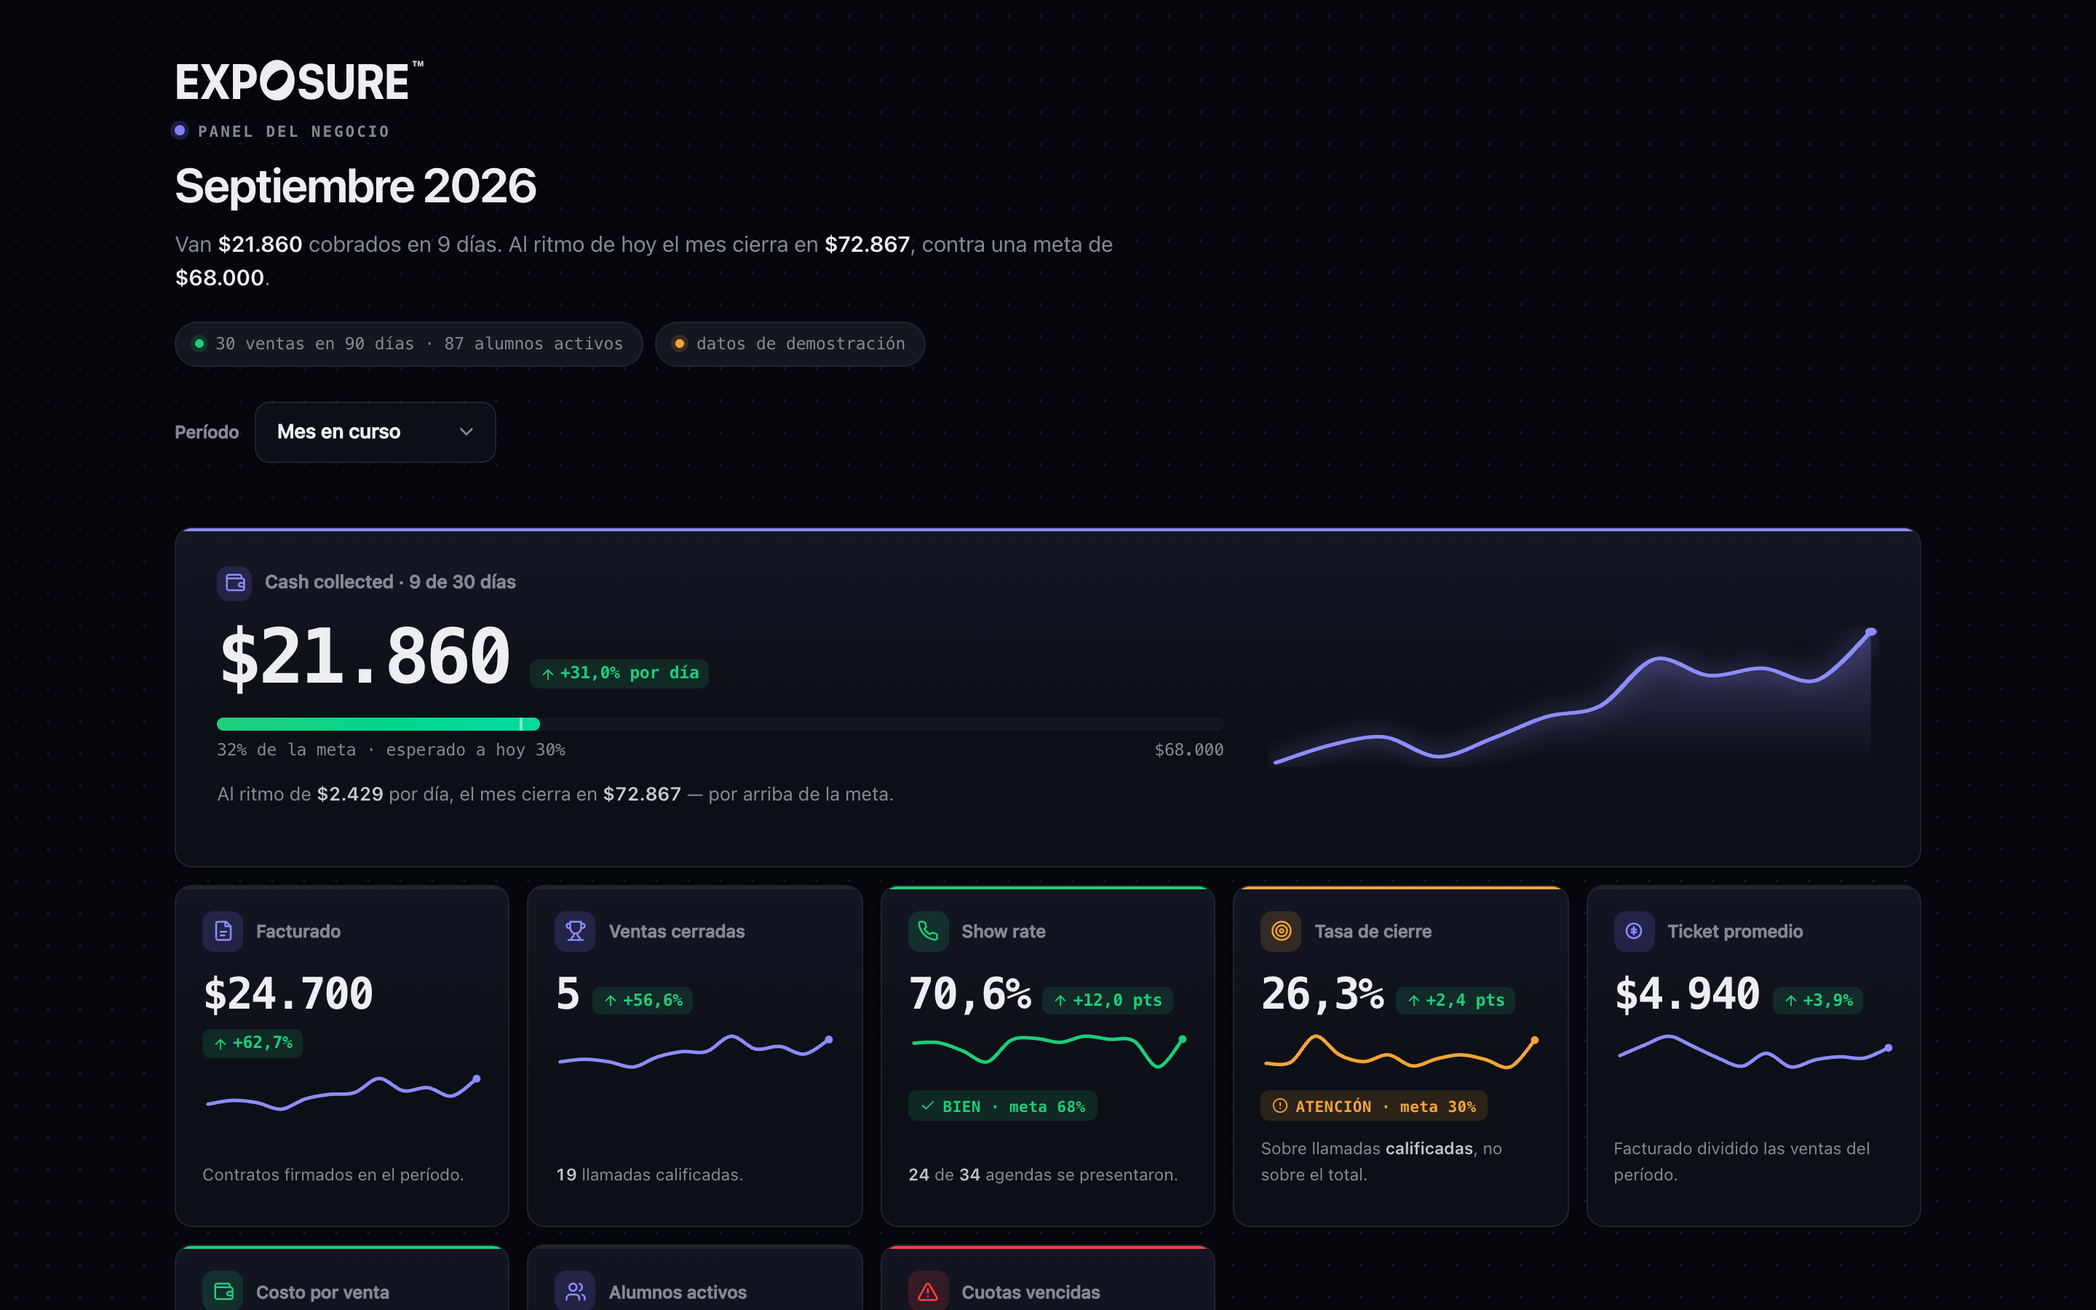
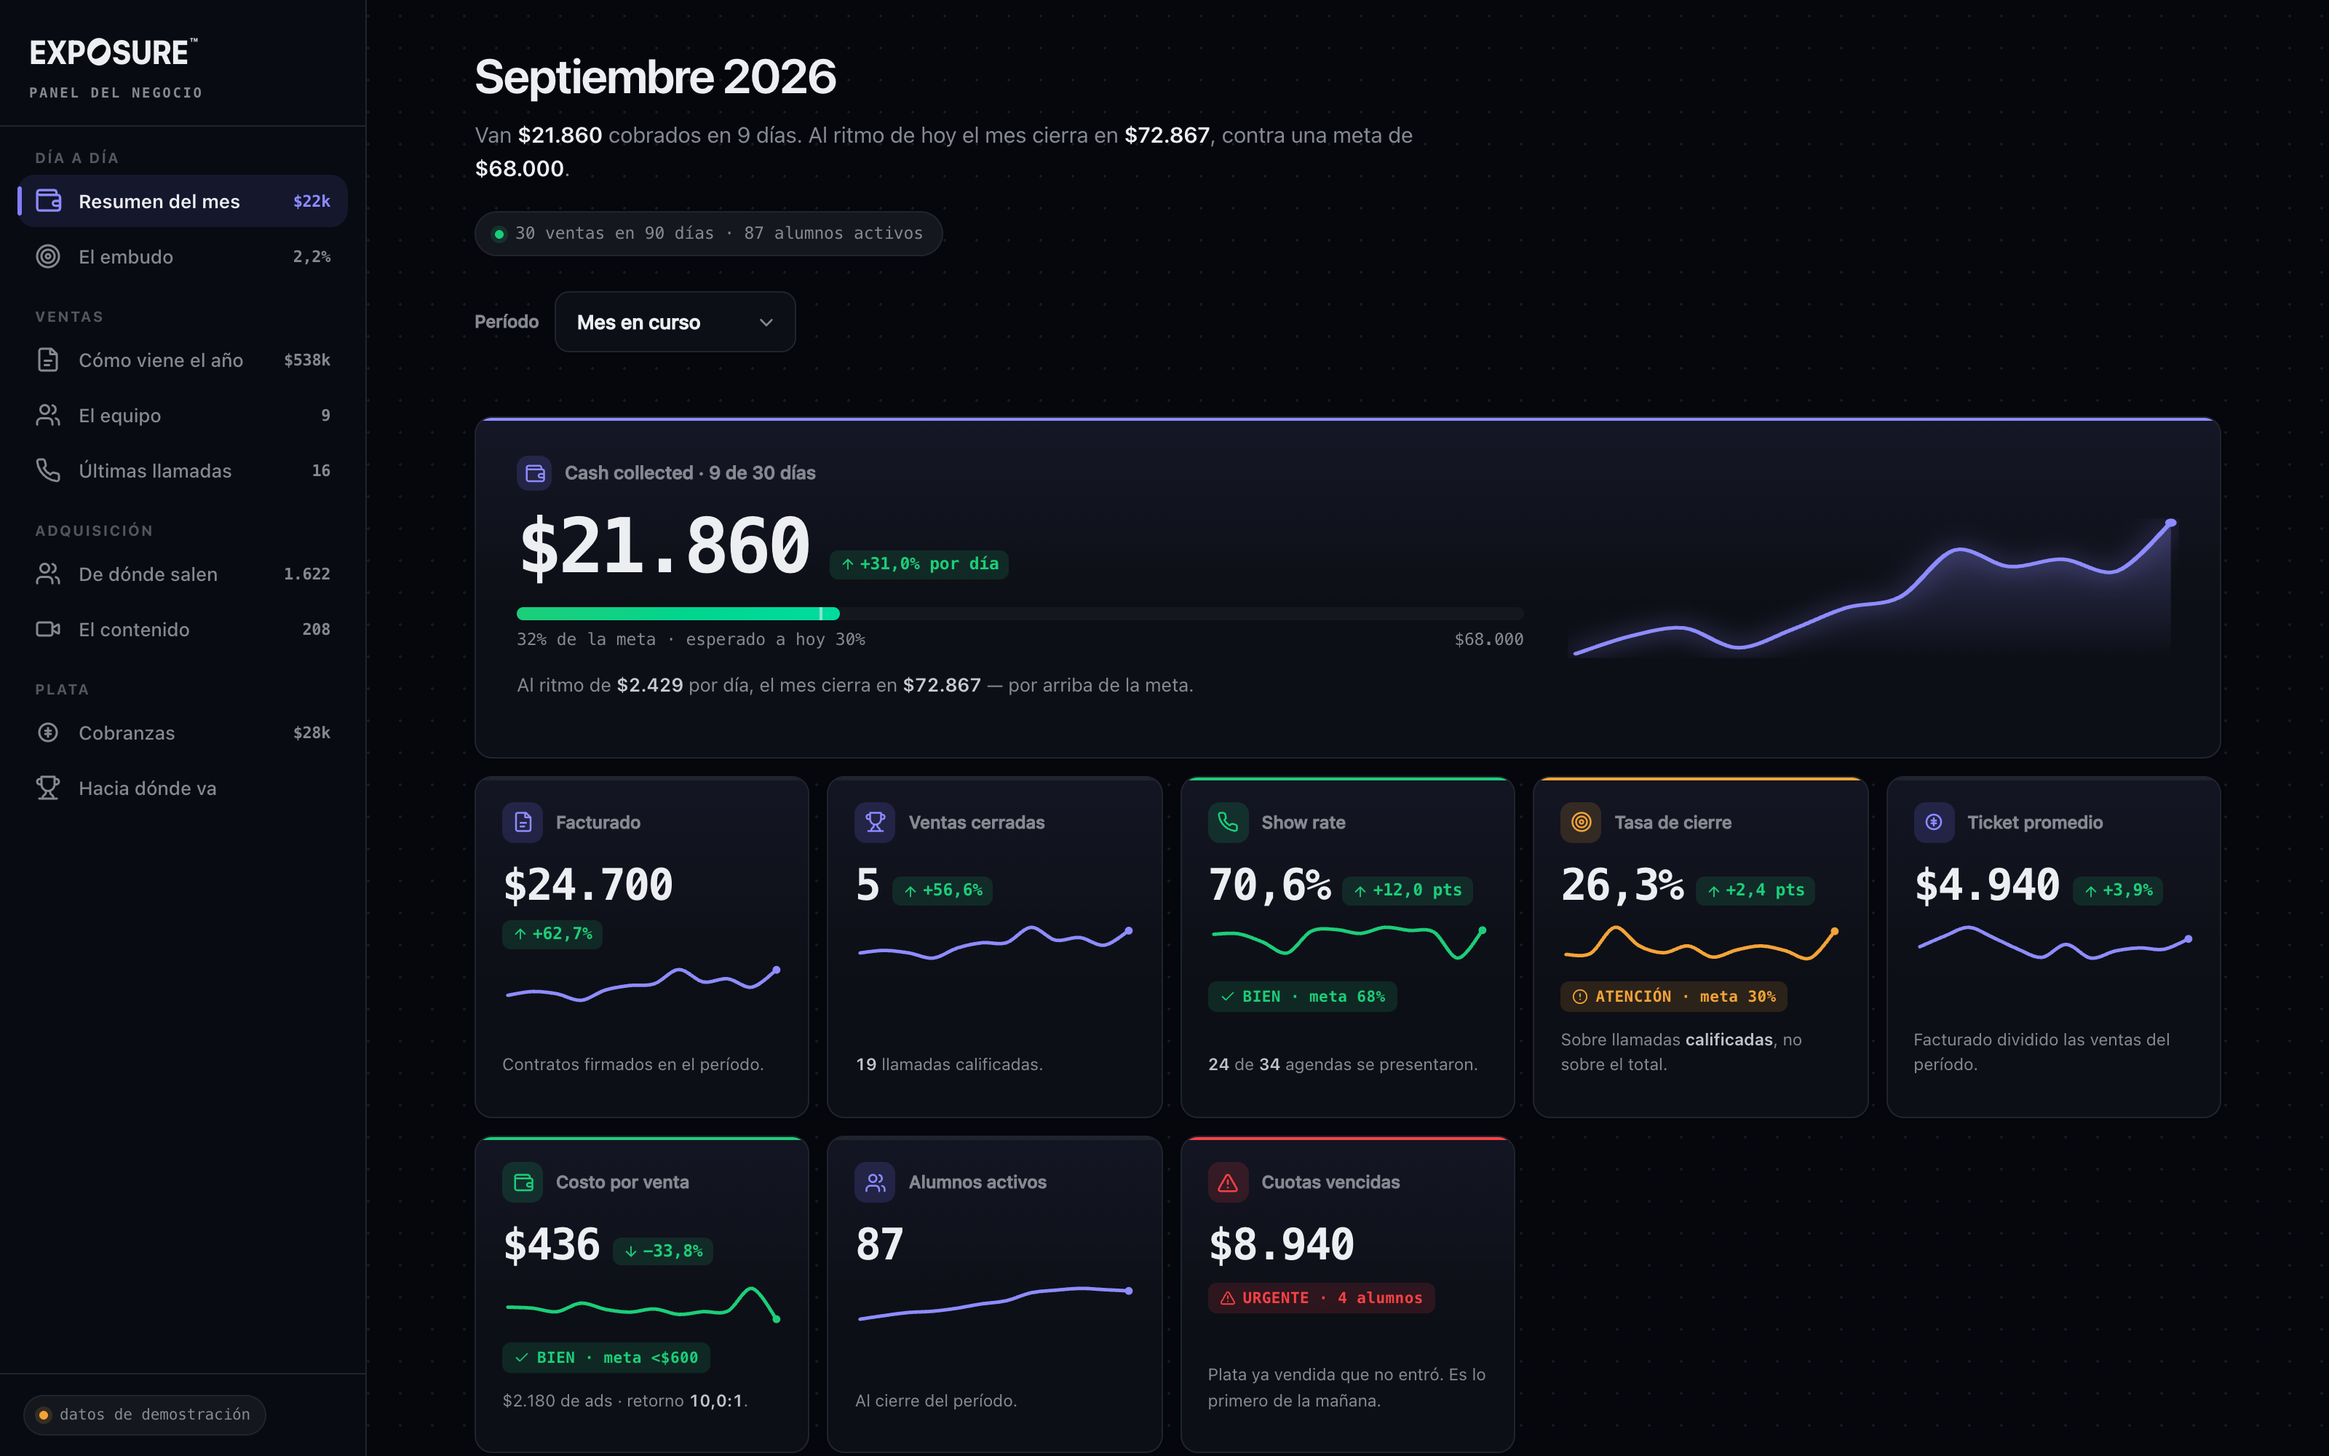
feat: sidebar agrupada con scroll-spy, como la del CRM
Nueve secciones sueltas en una página larga no se navegan: había que scrollear
a ojo para llegar a las cobranzas.

- aside fijo de 252px con el wordmark arriba, los items agrupados por tema y
  el sello de demo al pie
- el item activo se marca con fondo Y con una barrita de 3px: el color solo no
  alcanza para saber dónde estás parado
- cada item lleva una cifra viva a la derecha (cash del período, conversión
  total, leads, piezas, por cobrar) — sin eso es un índice; con eso el menú ya
  dice algo, y se recalcula al cambiar de período
- el scroll-spy se resuelve en el scroll y no con un observer por sección:
  con secciones de altura muy distinta el observer prende dos a la vez
- las secciones se reordenaron para seguir los grupos, porque una sidebar cuyo
  orden no es el de la página hace que el clic salte para atrás
- fuera del header la bajada y el sello de demo, que ahora viven en la sidebar
- por debajo de 1100px la sidebar se oculta y la página queda como estaba

diff --git a/index.html b/index.html
@@ -44,6 +44,44 @@ body{
   background-image:radial-gradient(oklch(.30 .02 270/.5) .8px,transparent .8px);
   background-size:22px 22px;
 }
+/* ── sidebar (el patrón del CRM) ───────────────────────────────────────────
+   Fija a la izquierda, agrupada por tema, con el item activo marcado por una
+   barrita de 3px además del fondo — el color solo no alcanza para saber dónde
+   estás parado. El orden de los grupos es el orden real de la página: si no,
+   hacés clic y el scroll salta para atrás. */
+.app{padding-left:var(--side-w,252px)}
+.side{position:fixed;left:0;top:0;bottom:0;width:252px;z-index:30;
+  display:flex;flex-direction:column;
+  background:oklch(.155 .015 270/.86);backdrop-filter:blur(16px);-webkit-backdrop-filter:blur(16px);
+  border-right:1px solid var(--border)}
+.side-top{padding:24px 20px 18px;border-bottom:1px solid var(--border)}
+.side-top .logo{font-size:23px}
+.side-sub{margin:9px 0 0;font:600 9.5px/1 var(--mono);letter-spacing:.14em;
+  text-transform:uppercase;color:var(--muted-fg)}
+.side-nav{flex:1;overflow-y:auto;padding:16px 12px;scrollbar-width:thin}
+.side-grupo + .side-grupo{margin-top:18px}
+.side-grupo>p{margin:0 0 7px;padding:0 12px;
+  font:700 10px/1 var(--sans);letter-spacing:.1em;text-transform:uppercase;
+  color:var(--muted-fg);opacity:.6;user-select:none}
+.side-i{position:relative;display:flex;align-items:center;gap:12px;width:100%;
+  border:0;background:transparent;cursor:pointer;text-align:left;
+  border-radius:12px;padding:9px 12px;font:500 13px/1.3 var(--sans);color:var(--muted-fg);
+  transition:background .2s var(--e),color .2s var(--e)}
+.side-i + .side-i{margin-top:2px}
+.side-i svg{width:18px;height:18px;flex:0 0 18px;transition:transform .2s var(--e)}
+.side-i:hover{color:var(--fg);background:oklch(1 0 0/.045)}
+.side-i:hover svg{transform:scale(1.06)}
+.side-i:focus-visible{outline:2px solid var(--primary);outline-offset:-2px}
+.side-i.on{color:var(--fg);font-weight:600;background:oklch(.68 .22 280/.10)}
+.side-i.on svg{transform:scale(1.1);color:var(--c1)}
+.side-i.on::before{content:"";position:absolute;left:0;top:50%;transform:translateY(-50%);
+  width:3px;height:20px;border-radius:99px;background:var(--primary)}
+.side-i .n{margin-left:auto;font:600 11px/1 var(--mono);color:var(--muted-fg);
+  font-variant-numeric:tabular-nums;letter-spacing:-.02em}
+.side-i.on .n{color:var(--c1)}
+.side-pie{padding:14px 16px;border-top:1px solid var(--border)}
+.side-pie .sello{font-size:10.5px;padding:6px 10px}
+
 .wrap{max-width:1240px;margin:0 auto;padding:0 20px 80px}
 .num,.kpi-n,.hero-n,.delta,td.num,.ejeY,.ejeX,.val,.chip,.lb-v,.big{
   font-variant-numeric:tabular-nums;
@@ -58,7 +96,7 @@ body{
 }
 
 /* ── header ─────────────────────────────────────────────────────────────── */
-.top{padding:38px 0 4px}
+.top{padding:34px 0 4px}
 /* ── el wordmark ────────────────────────────────────────────────────────────
    Reconstruido con tipografía del sistema: pesada, condensada con scaleX (que
    funciona con cualquier fuente, a diferencia de font-stretch) y con la O
@@ -327,6 +365,10 @@ td.fecha{font:500 12px var(--mono);color:var(--muted-fg);white-space:nowrap}
   font-size:12.5px;color:var(--muted-fg);line-height:1.7}
 .pie-doc b{color:var(--fg);font-weight:600}
 
+@media (max-width:1100px){
+  .app{padding-left:0}
+  .side{display:none}
+}
 @media (max-width:900px){
   .g2{grid-template-columns:1fr}
   .donut-box{grid-template-columns:1fr;justify-items:center}
@@ -360,11 +402,19 @@ td.fecha{font:500 12px var(--mono);color:var(--muted-fg);white-space:nowrap}
 </style>
 </head>
 <body>
+<aside class="side" id="side">
+  <div class="side-top">
+    <div id="logo"></div>
+    <p class="side-sub" id="sideSub">Panel del negocio</p>
+  </div>
+  <nav class="side-nav" id="sideNav" aria-label="Secciones del panel"></nav>
+  <div class="side-pie" id="sidePie"></div>
+</aside>
+
+<div class="app">
 <div class="wrap">
 
   <header class="top">
-    <div id="logo"></div>
-    <span class="marca"><span class="pip"></span> <span id="mBajada">Panel del negocio</span></span>
     <h1 id="tTitulo">Cargando…</h1>
     <p class="lead" id="tLead"></p>
     <div class="sellos" id="tSellos"></div>
@@ -378,12 +428,25 @@ td.fecha{font:500 12px var(--mono);color:var(--muted-fg);white-space:nowrap}
     </div>
   </header>
 
-  <section class="rise">
+  <section class="rise" id="s-resumen">
     <div class="card hero" id="hero"></div>
     <div class="kpis" id="kpis"></div>
   </section>
 
-  <section class="rise">
+  
+<section class="rise" id="s-embudo">
+    <div class="sec-h">
+      <div>
+        <h2>El embudo</h2>
+        <p class="titular" id="tEmbudo"></p>
+      </div>
+      <span class="marca-per" id="perEmbudo"></span>
+    </div>
+    <div class="card" id="cardEmbudo"></div>
+  </section>
+
+  
+<section class="rise" id="s-anio">
     <div class="sec-h">
       <div>
         <h2>Cómo viene el año</h2>
@@ -411,18 +474,8 @@ td.fecha{font:500 12px var(--mono);color:var(--muted-fg);white-space:nowrap}
     </div></div>
   </section>
 
-  <section class="rise">
-    <div class="sec-h">
-      <div>
-        <h2>El embudo</h2>
-        <p class="titular" id="tEmbudo"></p>
-      </div>
-      <span class="marca-per" id="perEmbudo"></span>
-    </div>
-    <div class="card" id="cardEmbudo"></div>
-  </section>
-
-  <section class="rise">
+  
+<section class="rise" id="s-equipo">
     <div class="sec-h">
       <div>
         <h2>El equipo</h2>
@@ -444,7 +497,17 @@ td.fecha{font:500 12px var(--mono);color:var(--muted-fg);white-space:nowrap}
     </div>
   </section>
 
-  <section class="rise">
+  
+<section class="rise" id="s-llamadas">
+    <div class="sec-h">
+      <div>
+        <h2>Las últimas llamadas</h2>
+        <p class="titular" id="tLlamadas"></p>
+      </div>
+    </div>
+    <div class="tabla-wrap"><table id="tablaLlamadas"></table></div>
+  </section>
+<section class="rise" id="s-fuentes">
     <div class="sec-h">
       <div>
         <h2>De dónde salen los leads</h2>
@@ -460,7 +523,8 @@ td.fecha{font:500 12px var(--mono);color:var(--muted-fg);white-space:nowrap}
     </div></div>
   </section>
 
-  <section class="rise">
+  
+<section class="rise" id="s-contenido">
     <div class="sec-h">
       <div>
         <h2>El contenido que trae llamadas</h2>
@@ -471,7 +535,8 @@ td.fecha{font:500 12px var(--mono);color:var(--muted-fg);white-space:nowrap}
     <div class="g3" id="contenido"></div>
   </section>
 
-  <section class="rise">
+  
+<section class="rise" id="s-cobranzas">
     <div class="sec-h">
       <div>
         <h2>Cobranzas del mes</h2>
@@ -483,7 +548,8 @@ td.fecha{font:500 12px var(--mono);color:var(--muted-fg);white-space:nowrap}
     <div class="tabla-wrap"><table id="tablaCuotas"></table></div>
   </section>
 
-  <section class="rise">
+  
+<section class="rise" id="s-proyeccion">
     <div class="sec-h">
       <div>
         <h2>Hacia dónde va</h2>
@@ -502,18 +568,12 @@ td.fecha{font:500 12px var(--mono);color:var(--muted-fg);white-space:nowrap}
     </div></div>
   </section>
 
-  <section class="rise">
-    <div class="sec-h">
-      <div>
-        <h2>Las últimas llamadas</h2>
-        <p class="titular" id="tLlamadas"></p>
-      </div>
-    </div>
-    <div class="tabla-wrap"><table id="tablaLlamadas"></table></div>
-  </section>
+  
+
 
   <p class="pie-doc" id="pieDoc"></p>
 
+</div>
 </div>
 
 <div class="tip" id="tip"></div>
@@ -760,18 +820,16 @@ const O_SVG = '<svg class="o" viewBox="0 0 100 100" aria-hidden="true">'
     '<span class="logo" role="img" aria-label="' + esc(D.marca.nombre) + '">'
     + html + "<sup>&#8482;</sup></span>";
 })();
-document.getElementById("mBajada").textContent  = D.marca.bajada;
 document.title = D.marca.nombre + " · " + D.marca.bajada;
 document.getElementById("tTitulo").textContent  = mesLargo(ultimo.mes).replace(/^./, c => c.toUpperCase());
 const proyMes = ultimo.cobrado / diasDe(ultimo) * (ultimo.diasTotal || diasDe(ultimo));
 document.getElementById("tLead").innerHTML =
   "Van <b>" + money(ultimo.cobrado) + "</b> cobrados en " + diasDe(ultimo) + " días. Al ritmo de hoy el mes cierra en <b>"
   + money(proyMes) + "</b>, contra una meta de <b>" + money(D.marca.metaMensual) + "</b>.";
+/* el sello de demo vive en el pie de la sidebar; acá iría repetido */
 document.getElementById("tSellos").innerHTML =
   '<span class="sello"><span class="punto"></span>' + agregar(M.slice(-3)).cierres + " ventas en 90 días · "
-  + ultimo.alumnos + " alumnos activos</span>"
-  + (typeof MODO_DEMO !== "undefined" && MODO_DEMO
-      ? '<span class="sello demo"><span class="punto"></span>datos de demostración</span>' : "");
+  + ultimo.alumnos + " alumnos activos</span>";
 
 /* ══ 2 · hero + KPIs ══════════════════════════════════════════════════════ */
 const selP = document.getElementById("periodo");
@@ -1243,12 +1301,84 @@ document.getElementById("pieDoc").innerHTML =
   + (typeof MODO_DEMO !== "undefined" && MODO_DEMO
       ? " · Los números cargados son de <b>demostración</b>: reemplazalos en datos.js y poné MODO_DEMO en false." : "");
 
-/* ══ 12 · arranque ════════════════════════════════════════════════════════ */
+/* ══ 12 · la sidebar ══════════════════════════════════════════════════════
+   La nav se genera desde este mapa. Cada item lleva un número vivo a la
+   derecha: sin eso es un índice; con eso, el menú ya te dice algo. */
+(function sidebar(){
+  const a90 = derivar(agregar(M.slice(-3)));
+  const GRUPOS = [
+    {g:"Día a día", items:[
+      {id:"s-resumen",    n:"Resumen del mes", ico:"wallet"},
+      {id:"s-embudo",     n:"El embudo",       ico:"target"},
+    ]},
+    {g:"Ventas", items:[
+      {id:"s-anio",       n:"Cómo viene el año", ico:"file"},
+      {id:"s-equipo",     n:"El equipo",         ico:"users"},
+      {id:"s-llamadas",   n:"Últimas llamadas",  ico:"phone"},
+    ]},
+    {g:"Adquisición", items:[
+      {id:"s-fuentes",    n:"De dónde salen",  ico:"users"},
+      {id:"s-contenido",  n:"El contenido",    ico:"video"},
+    ]},
+    {g:"Plata", items:[
+      {id:"s-cobranzas",  n:"Cobranzas",       ico:"coin"},
+      {id:"s-proyeccion", n:"Hacia dónde va",  ico:"trophy"},
+    ]},
+  ];
+  /* el numerito de cada item — se recalcula al cambiar de período */
+  const CIFRA = {
+    "s-embudo":    c => pct(c.act.leads ? c.act.cierres/c.act.leads*100 : 0, 1),
+    "s-anio":      () => moneyK(anio12.cobrado),
+    "s-equipo":    () => D.closers.length + D.setters.length,
+    "s-llamadas":  () => D.llamadas.length,
+    "s-fuentes":   () => miles(D.fuentes.reduce((s,f) => s+f.leads, 0)),
+    "s-contenido": () => miles(D.contenido.reduce((s,x) => s+x.piezas, 0)),
+    "s-cobranzas": () => moneyK(CU.porCobrar + CU.vencido),
+    "s-proyeccion":() => "",
+    "s-resumen":   c => moneyK(c.act.cobrado),
+  };
+  document.getElementById("sideSub").textContent = D.marca.bajada;
+  document.getElementById("sideNav").innerHTML = GRUPOS.map(gr =>
+    '<div class="side-grupo"><p>'+gr.g+"</p>"
+    + gr.items.map(it => '<button type="button" class="side-i" data-id="'+it.id+'">'
+        + ico(it.ico) + '<span>'+it.n+'</span><span class="n" data-cifra="'+it.id+'"></span></button>').join("")
+    + "</div>").join("");
+  document.getElementById("sidePie").innerHTML =
+    '<span class="sello'+(typeof MODO_DEMO !== "undefined" && MODO_DEMO ? " demo" : "")+'">'
+    + '<span class="punto"></span>' + (typeof MODO_DEMO !== "undefined" && MODO_DEMO
+        ? "datos de demostración" : "datos reales") + "</span>";
+
+  const items = [].slice.call(document.querySelectorAll(".side-i"));
+  items.forEach(b => b.addEventListener("click", () => {
+    const s = document.getElementById(b.dataset.id);
+    if (s) s.scrollIntoView({behavior: REDUCIR ? "auto" : "smooth", block:"start"});
+  }));
+  /* scroll-spy: marca la sección cuya parte visible manda. Se recalcula en el
+     scroll y no con un observer por sección, porque con secciones de altura
+     muy distinta el observer prende dos a la vez. */
+  const marcar = () => {
+    const y = scrollY + innerHeight * .28;
+    let act = items[0] && items[0].dataset.id;
+    items.forEach(b => { const s = document.getElementById(b.dataset.id);
+      if (s && s.offsetTop <= y) act = b.dataset.id; });
+    items.forEach(b => b.classList.toggle("on", b.dataset.id === act));
+  };
+  addEventListener("scroll", marcar, {passive:true});
+  addEventListener("resize", marcar);
+  marcar();
+  window.__cifras = c => items.forEach(b => {
+    const f = CIFRA[b.dataset.id];
+    b.querySelector(".n").textContent = f ? f(c) : "";
+  });
+})();
+
+/* ══ 13 · arranque ════════════════════════════════════════════════════════ */
 function pintarPeriodo(){
   const c = calc(selP.value);
   pintarHero(c); pintarKpis(c); pintarEmbudo(c);
   const sec = document.querySelector("section.rise");
   activar(sec); activar(document.getElementById("cardEmbudo").closest("section"));
+  if (window.__cifras) window.__cifras(c);
 }
 selP.addEventListener("change", pintarPeriodo);
 pintarPeriodo();

diff --git a/CLAUDE.md b/CLAUDE.md
@@ -34,7 +34,12 @@ Dentro de `index.html`, el JS está numerado por bloques y en este orden:
 | animación | `countUp` `activar` y el `IntersectionObserver` |
 | tooltip | `mostrarTip` / `ocultarTip` |
 | helpers de gráfico | `escala` `pathDe` `largoPath` `sparkline` `colorNombre` |
-| 1-12 | encabezado, hero, KPIs, año, embudo, equipo, fuentes, contenido, cobranzas, proyección, llamadas, pie, arranque |
+| 1-13 | encabezado, hero, KPIs, año, embudo, equipo, fuentes, contenido, cobranzas, proyección, llamadas, pie, **sidebar**, arranque |
+
+**La sidebar** se genera desde el array `GRUPOS` del bloque 12. Cada item apunta al `id` de una
+`<section class="rise">` y lleva una cifra viva que sale del mapa `CIFRA`. **El orden de la sidebar
+tiene que ser el orden real de las secciones en el HTML**: si no coincide, el usuario hace clic y el
+scroll salta para atrás. Si agregás una sección, sumala en los dos lugares.
 
 ## Cómo se anima (importante al agregar cosas)
 
